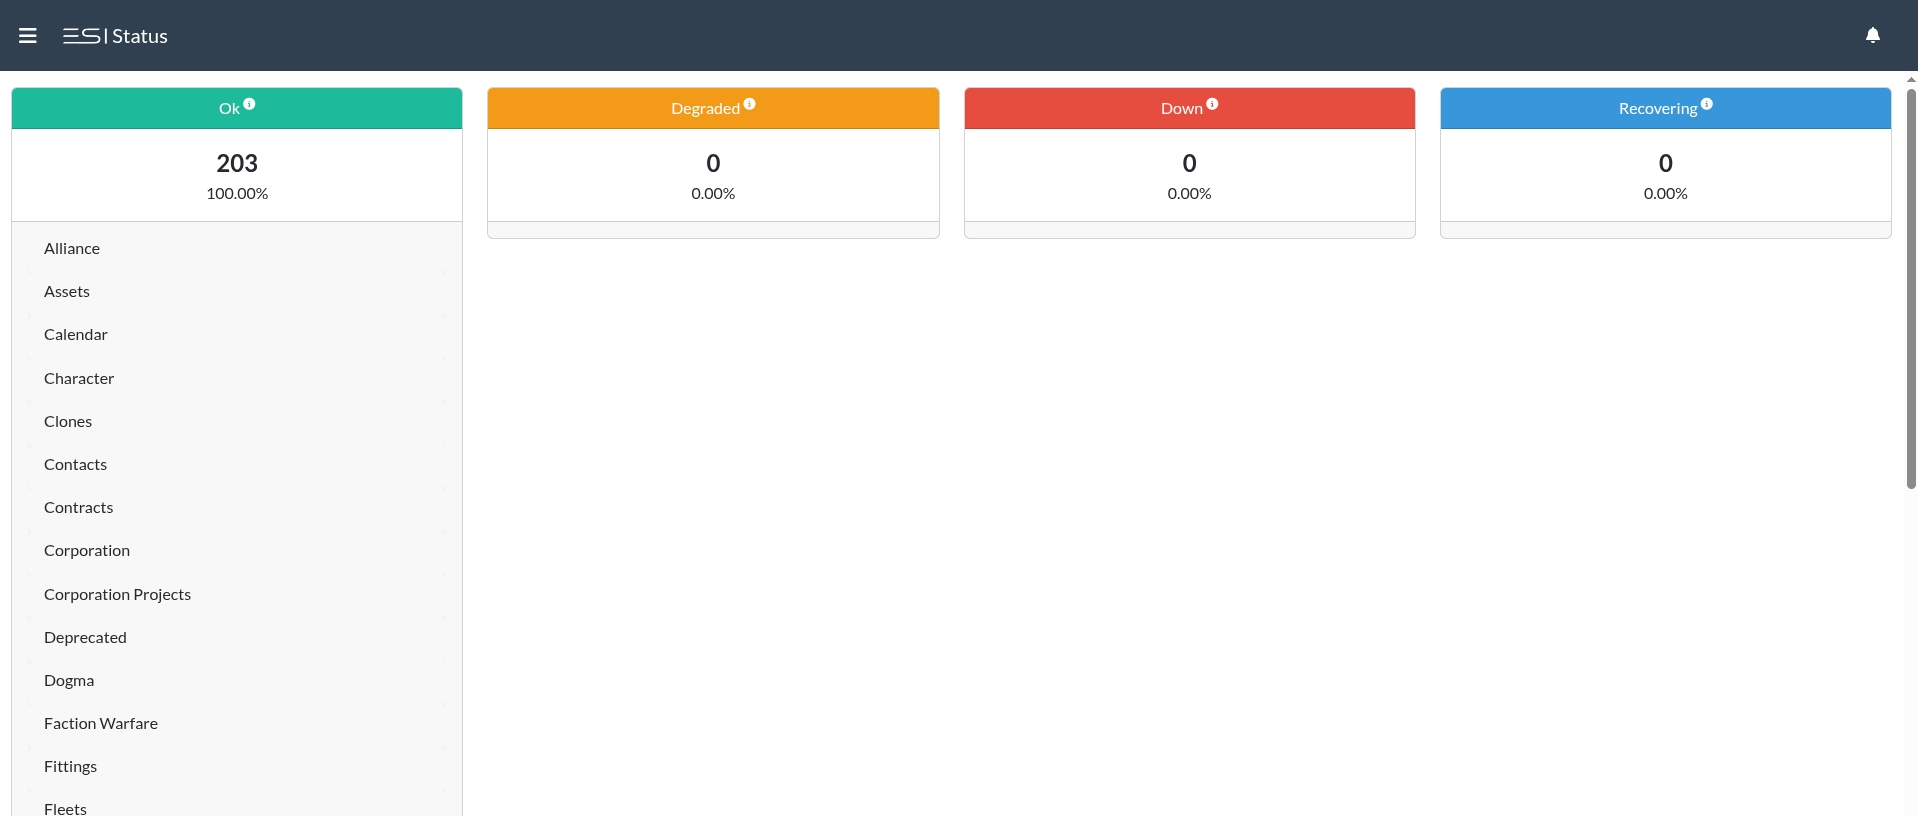
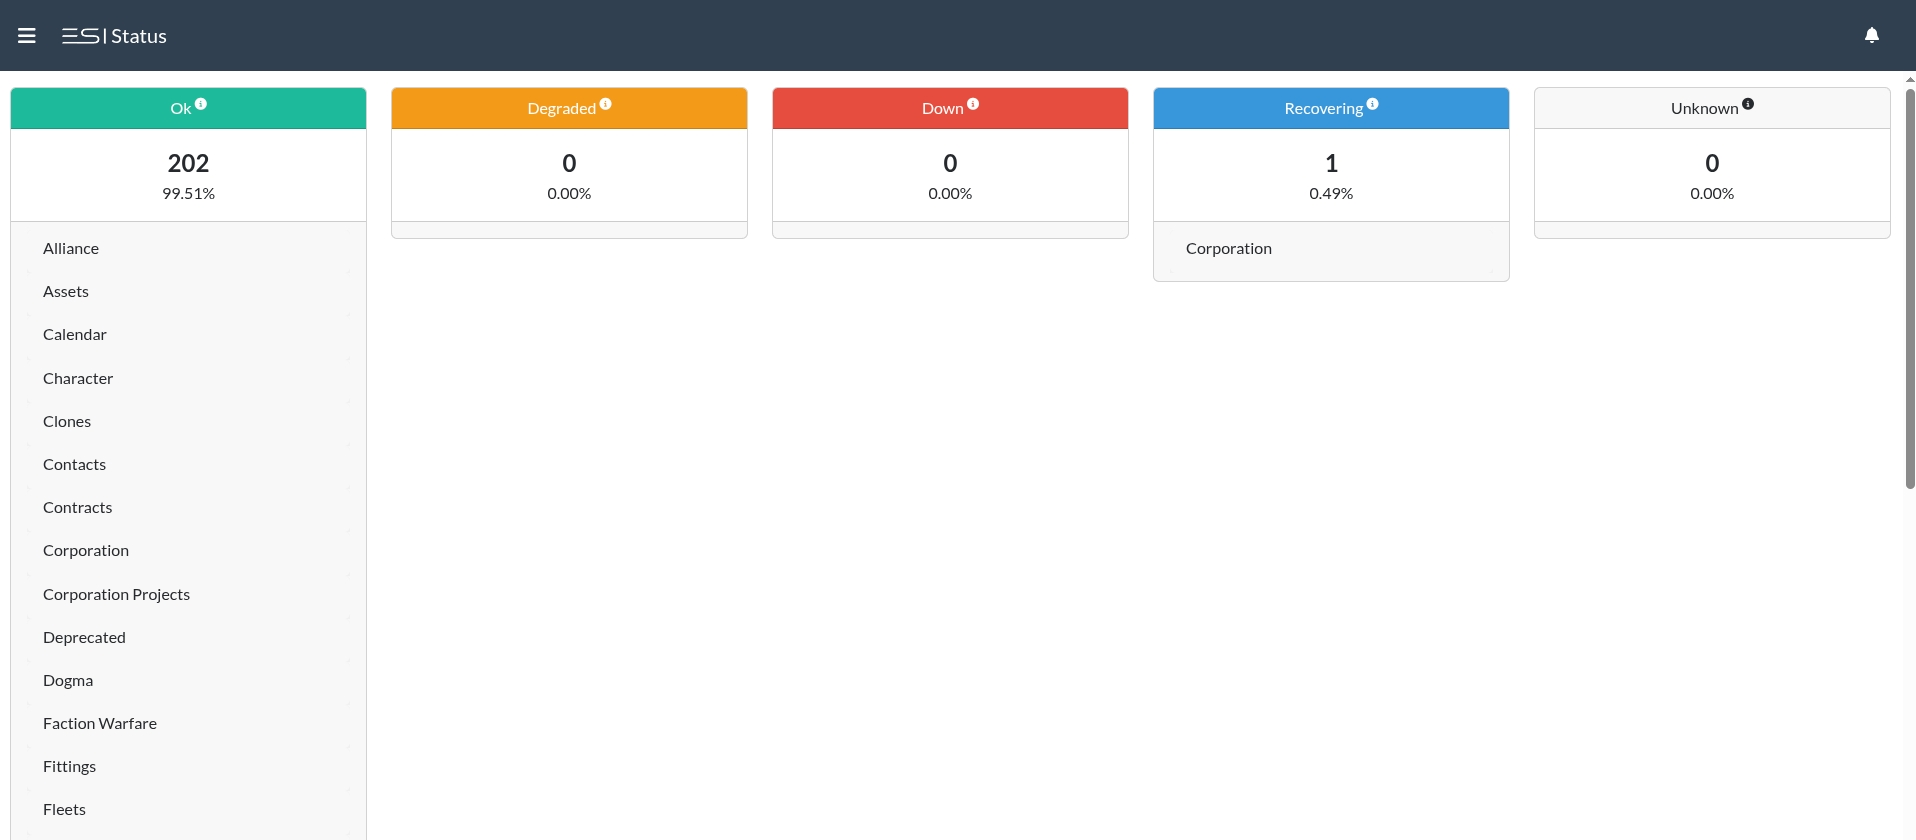
[ADD] Panel for routes with unknown status

diff --git a/esistatus/templates/esistatus/partials/dashboard-widget/esi-status.html b/esistatus/templates/esistatus/partials/dashboard-widget/esi-status.html
@@ -12,7 +12,7 @@
         </div>
 
         {% if esi_endpoint_status %}
-            <div class="row mb-3">
+            <div class="row row-cols-1 row-cols-sm-2 row-cols-md-3 row-cols-xl-5 mb-3">
                 <!-- OK Routes -->
                 {% translate "OK" as translated_header_green %}
                 {% translate "These routes are working as expected." as translated_header_green_explanation %}
@@ -32,6 +32,11 @@
                 {% translate "Recovering" as translated_header_red %}
                 {% translate "These routes are recovering from previous issues and might not (yet) work as expected or might be slow." as translated_header_red_explanation %}
                 {% include 'esistatus/partials/endpoints.html' with title=translated_header_red status="Recovering" explanation=translated_header_red_explanation data=esi_endpoint_status.Recovering with_details=False %}
+
+                <!-- Unknown Routes -->
+                {% translate "Unknown" as translated_header_red %}
+                {% translate "These routes have an unknown status." as translated_header_red_explanation %}
+                {% include 'esistatus/partials/endpoints.html' with title=translated_header_red status="Unknown" explanation=translated_header_red_explanation data=esi_endpoint_status.Unknown with_details=False %}
             </div>
 
             <div class="text-end">

diff --git a/esistatus/templates/esistatus/partials/index/esi-status.html b/esistatus/templates/esistatus/partials/index/esi-status.html
@@ -1,7 +1,7 @@
 {% load i18n %}
 
 {% if esi_endpoint_status %}
-    <div class="row">
+    <div class="row row-cols-1 row-cols-sm-2 row-cols-md-3 row-cols-xl-5">
         <!-- OK Routes -->
         {% translate "OK" as translated_header_green %}
         {% translate "These routes are working as expected." as translated_header_green_explanation %}
@@ -21,6 +21,11 @@
         {% translate "Recovering" as translated_header_red %}
         {% translate "These routes are recovering from previous issues and might not (yet) work as expected or might be slow." as translated_header_red_explanation %}
         {% include 'esistatus/partials/endpoints.html' with title=translated_header_red status="Recovering" explanation=translated_header_red_explanation data=esi_endpoint_status.Recovering with_details=True %}
+
+        <!-- Unknown Routes -->
+        {% translate "Unknown" as translated_header_red %}
+        {% translate "These routes have an unknown status." as translated_header_red_explanation %}
+        {% include 'esistatus/partials/endpoints.html' with title=translated_header_red status="Unknown" explanation=translated_header_red_explanation data=esi_endpoint_status.Unknown with_details=True %}
     </div>
 {% else %}
     <div class="aa-callout aa-callout-info">

diff --git a/esistatus/templates/esistatus/partials/endpoints.html b/esistatus/templates/esistatus/partials/endpoints.html
@@ -1,6 +1,6 @@
-<div class="col-md-3 mb-3 mb-md-0">
+<div class="col mb-4 mb-xl-0">
     <div class="card card-{{ status }}-esi-endpoints">
-        <div class="card-header text-bg-{% if status == 'Down' %}danger{% elif status == 'Degraded' %}warning{% elif status == 'Recovering' %}info{% else %}success{% endif %}">
+        <div class="card-header text-bg-{% if status == 'Down' %}danger{% elif status == 'Degraded' %}warning{% elif status == 'Recovering' %}info{% elif status == 'Unknown' %}default{% else %}success{% endif %}">
             <div class="card-title text-center mb-0">
                 {{ title|title }}
 

diff --git a/CHANGELOG.md b/CHANGELOG.md
@@ -36,6 +36,10 @@ Section Order:
 
 <!-- Your changes go here -->
 
+### Added
+
+- Panel for routes with unknown status
+
 ## [3.0.1] - 2025-11-21
 
 ### Fixed
